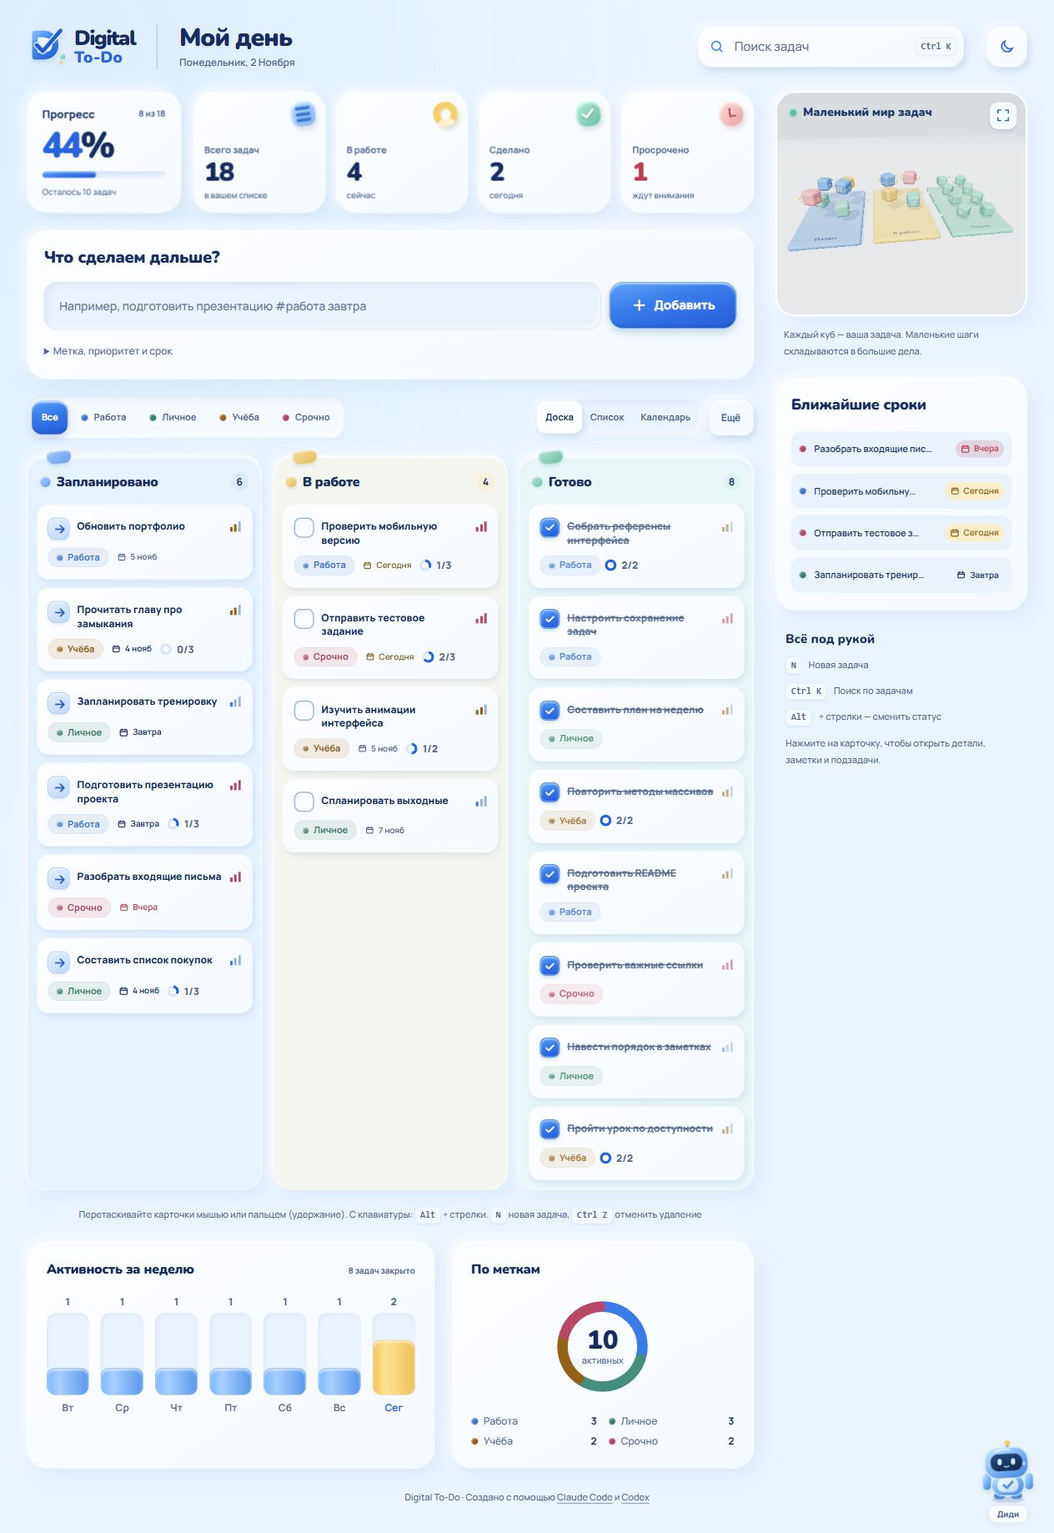
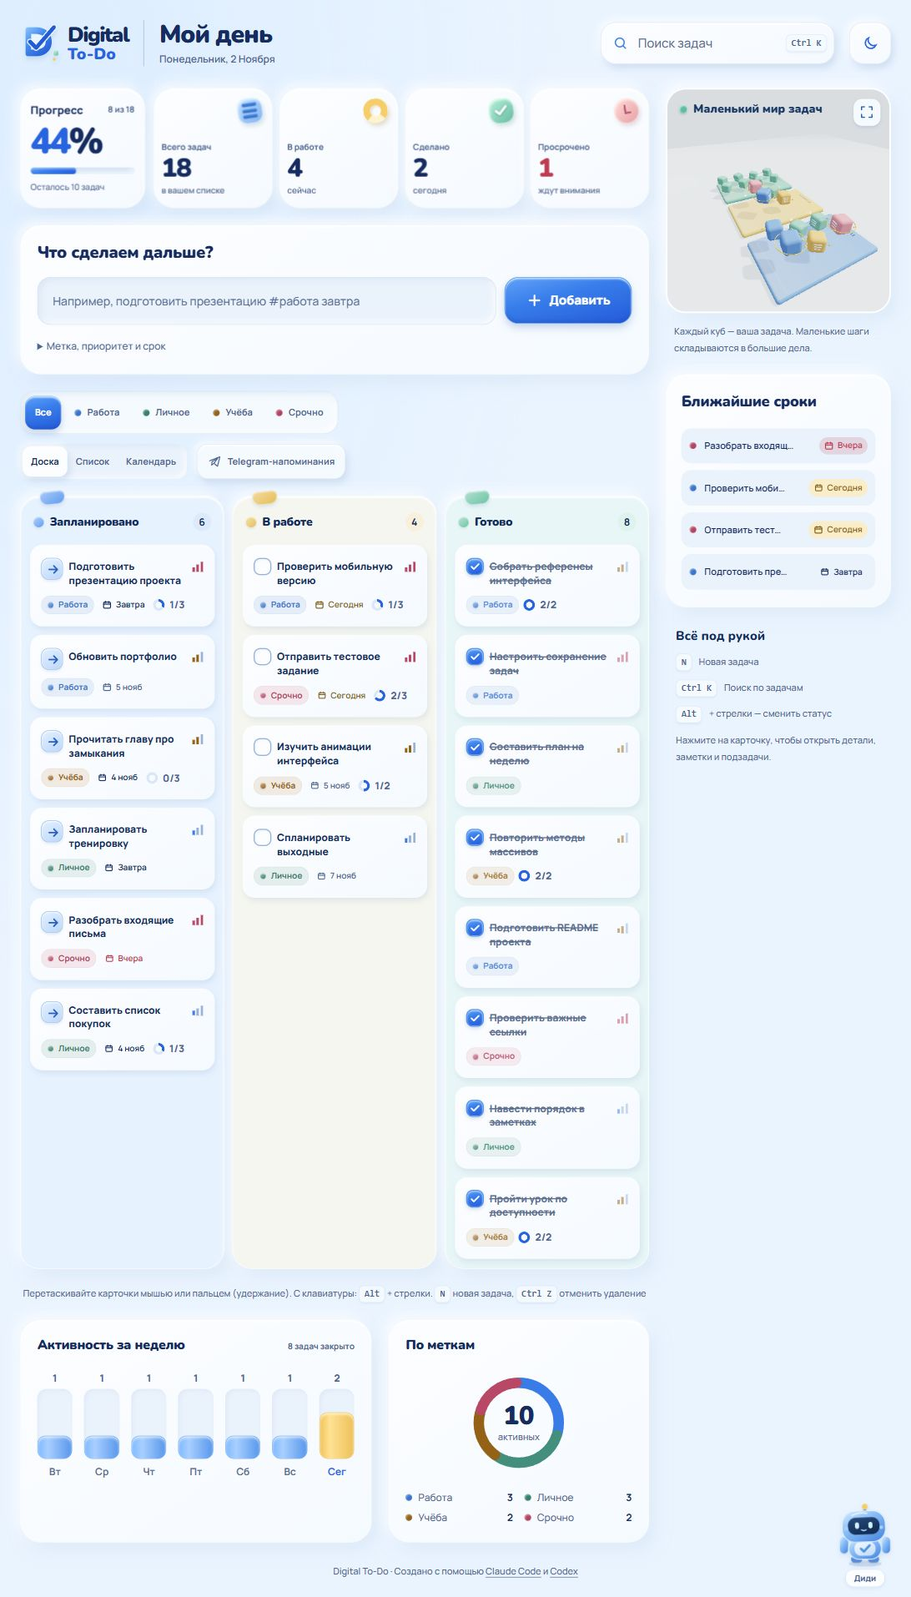
Activate To-Do reminders with /todo and refresh live screenshots

diff --git a/js/assistant.js b/js/assistant.js
@@ -3,7 +3,7 @@ import { dueInfo } from './parse.js';
 import { readAssistantResponse } from './assistant-stream.js';
 
 const reducedMotion = matchMedia('(prefers-reduced-motion: reduce)').matches;
-const GUIDE = `Я Диди — помощник Digital To-Do. Помогу разобраться с задачами.\n\n• Добавьте задачу в поле «Что сделаем дальше?». Можно написать «Сдать отчёт #работа ! завтра»: метка, приоритет и срок определятся автоматически.\n• Переносите карточки между колонками или выберите статус в карточке задачи.\n• В «Запланировано» нажмите стрелку «Взять в работу»: задача перейдёт в колонку «В работе». Галочка в «В работе» завершает задачу. Нажатие на карточку открывает детали, подзадачи и заметки.\n• Удаление можно отменить через уведомление или Ctrl+Z.\n• Поиск — Ctrl+K. Новая задача — N.\n• В виде «Календарь» нажмите плюс у даты, чтобы создать задачу с нужным сроком.\n• Напоминания: «Telegram-напоминания», затем подключите личный чат, выберите задачи и время.\n\nСпросите: «Сколько осталось?», «Что важнее?» или «Что просрочено?».`;
+const GUIDE = `Я Диди — помощник Digital To-Do. Помогу разобраться с задачами.\n\n• Добавьте задачу в поле «Что сделаем дальше?». Можно написать «Сдать отчёт #работа ! завтра»: метка, приоритет и срок определятся автоматически.\n• Переносите карточки между колонками или выберите статус в карточке задачи.\n• В «Запланировано» нажмите стрелку «Взять в работу»: задача перейдёт в колонку «В работе». Галочка в «В работе» завершает задачу. Нажатие на карточку открывает детали, подзадачи и заметки.\n• Удаление можно отменить через уведомление или Ctrl+Z.\n• Поиск — Ctrl+K. Новая задача — N.\n• В виде «Календарь» нажмите плюс у даты, чтобы создать задачу с нужным сроком.\n• Напоминания: «Telegram-напоминания», затем перейдите в личный чат, нажмите Start и отправьте /todo. После подключения выберите задачи и время.\n\nСпросите: «Сколько осталось?», «Что важнее?» или «Что просрочено?».`;
 
 function plural(n, one, few, many) {
   return n % 10 === 1 && n % 100 !== 11 ? one : n % 10 >= 2 && n % 10 <= 4 && (n % 100 < 12 || n % 100 > 14) ? few : many;

diff --git a/js/reminders.js b/js/reminders.js
@@ -106,7 +106,7 @@ export function initReminders({ mount = document.querySelector('.toolbar-right')
         if (selectionChanged) persist();
         state.textContent = failed ? 'Telegram подключён. Некоторые напоминания не удалось доставить — выберите для них новое время.' : 'Telegram подключён. Напоминания придут в ваш личный чат с ботом.';
         link.hidden = true; clearTimeout(poll); pairing = null;
-      } else state.textContent = status.pending ? 'Откройте бота и нажмите «Запустить», чтобы подтвердить подключение.' : 'Подключите свой Telegram и разрешите боту отправлять напоминания.';
+      } else state.textContent = status.awaitingCommand ? 'Ссылка подтверждена. Отправьте боту команду /todo, чтобы включить напоминания.' : status.pending ? 'Откройте бота по ссылке, нажмите «Запустить», затем отправьте /todo.' : 'Подключите свой Telegram и разрешите боту отправлять напоминания.';
       paint();
       if (pairing && !connected && Date.now() < pairing.expiresAt) poll = setTimeout(refresh, 3000);
       else if (pairing && !connected) { link.hidden = true; pairing = null; state.textContent = 'Ссылка истекла. Подключите Telegram ещё раз.'; }
@@ -139,7 +139,7 @@ export function initReminders({ mount = document.querySelector('.toolbar-right')
       pairing = await api('/link', {}); token = pairing.clientToken;
       try { localStorage.setItem(TOKEN_KEY, token); } catch {}
       link.href = pairing.linkUrl; link.hidden = false;
-      state.textContent = 'Откройте Telegram по ссылке ниже и нажмите «Запустить». Ссылка действует 5 минут.';
+      state.textContent = 'Откройте Telegram по ссылке, нажмите «Запустить», затем отправьте /todo. Ссылка действует 5 минут.';
       clearTimeout(poll); poll = setTimeout(refresh, 2000);
     } catch { state.textContent = 'Подключение пока недоступно. Попробуйте позже.'; }
     finally { connect.disabled = !configured; }

diff --git a/README.md b/README.md
@@ -47,7 +47,7 @@
 
 **Потоковый чат.** Ответ модели передаётся через SSE и появляется по мере получения текста. Есть индикатор ожидания, курсор и кнопка остановки; при недоступности API используются локальные ответы. Проверка семи реальных диалогов выявила неточности с датами выполнения; системный промпт уточнён. [Отчёт проверки](docs/assistant-qa.md).
 
-**Telegram-напоминания.** Отдельная кнопка «Telegram-напоминания» открывает подключение личного чата через одноразовую ссылку, выбор задач и точного времени. Сервер продолжает отправлять напоминания при закрытом сайте. Выполненные и удалённые задачи снимаются при следующей синхронизации браузера. Серверный бот подключён через общий webhook: ссылки Digital To-Do обрабатываются отдельно, а остальные сообщения и ответы прежнего сервиса сохраняются через пересылку. Для получения напоминаний нужно лично нажать «Подключить» и Start в Telegram. Доставка в личный чат пользователя ещё не подтверждена. [Настройка Telegram для Claude Code](docs/TELEGRAM-SETUP.md).
+**Telegram-напоминания.** Отдельная кнопка «Telegram-напоминания» открывает подключение личного чата через одноразовую ссылку, выбор задач и точного времени. Сервер продолжает отправлять напоминания при закрытом сайте. Выполненные и удалённые задачи снимаются при следующей синхронизации браузера. Серверный бот подключён через общий webhook: ссылки Digital To-Do обрабатываются отдельно, а остальные сообщения и ответы прежнего сервиса сохраняются через пересылку. Для получения напоминаний нужно лично нажать «Подключить», Start в Telegram и отправить `/todo`. Доставка в личный чат пользователя ещё не подтверждена. [Настройка Telegram для Claude Code](docs/TELEGRAM-SETUP.md).
 
 **Демо-данные.** Доступны 18 примеров со сроками, подзадачами и активностью за неделю. При первом открытии примеры добавляются автоматически; последующие открытия не создают дубликатов. У примеров есть соответствующая отметка в заметках.
 

diff --git a/docs/REVIEWER-MESSAGE.md b/docs/REVIEWER-MESSAGE.md
@@ -8,7 +8,7 @@
 
 Сверх задания добавил канбан с перетаскиванием, список и календарь, поиск, метки, приоритеты, подзадачи, статистику и компактный 3D-обзор. Из календаря можно скачать .ics для календаря телефона: активные задачи со сроками и текущими фильтрами экспортируются событиями на весь день. Это снимок без автосинхронизации, заметки не передаются. На телефоне 3D не загружается. Есть светлая и тёмная тема, отмена удаления и демонстрационные данные.
 
-Диди — анимированный помощник и гид по сайту. Он анализирует текущие задачи и отвечает потоковым текстом через RouterAI; HTTPS и реальные потоковые ответы проверены в браузере. Ключ хранится на отдельном сервере. При недоступности AI работают локальные ответы. Серверные Telegram-напоминания настроены; для их получения пользователь лично связывает свой чат кнопкой на сайте и нажимает Start в Telegram. Доставка в мой личный чат пока не заявляется проверенной.
+Диди — анимированный помощник и гид по сайту. Он анализирует текущие задачи и отвечает потоковым текстом через RouterAI; HTTPS и реальные потоковые ответы проверены в браузере. Ключ хранится на отдельном сервере. При недоступности AI работают локальные ответы. Серверные Telegram-напоминания настроены; для их получения пользователь лично связывает свой чат кнопкой на сайте и нажимает Start и отправляет `/todo` в Telegram. Доставка в мой личный чат пока не заявляется проверенной.
 
 Первую версию делал с Claude Code, переработку дизайна и функций — с OpenAI Codex. Варианты внешнего вида исследовал через imagegen, а финальный интерфейс реализован кодом. Проверял пользовательские сценарии в браузере; серверные сценарии покрыты тестами.
 

diff --git a/docs/CLAUDE-DEPLOY-ASSISTANT.md b/docs/CLAUDE-DEPLOY-ASSISTANT.md
@@ -16,7 +16,7 @@
 
 Провайдер — **RouterAI**, база `https://routerai.ru/api/v1`, модель production — **`openai/gpt-4.1-mini`**. В локальных экспериментах использовались и другие модели; исторический QA-отчёт не определяет текущую настройку VPS.
 
-HTTPS сайта и настоящий потоковый AI-ответ проверены в браузере. Telegram настроен в режиме общего webhook с существующим приложением: Digital To-Do обрабатывает свои `/start dt_<nonce>`, а остальные updates пересылает прежнему обработчику вместе с его успешным ответом. Старое приложение продолжает работать; конкурирующий getUpdates не запускается. Прежний URL и секреты остаются только в env на сервере. Для напоминаний пользователь сам связывает личный чат кнопкой на сайте и нажимает Start в Telegram. Доставка в его личный чат ещё не подтверждена.
+HTTPS сайта и настоящий потоковый AI-ответ проверены в браузере. Telegram настроен в режиме общего webhook с существующим приложением: Digital To-Do обрабатывает свои `/start dt_<nonce>`, а остальные updates пересылает прежнему обработчику вместе с его успешным ответом. Старое приложение продолжает работать; конкурирующий getUpdates не запускается. Прежний URL и секреты остаются только в env на сервере. Для напоминаний пользователь сам связывает личный чат кнопкой на сайте и нажимает Start и отправляет `/todo` в Telegram. Доставка в его личный чат ещё не подтверждена.
 
 ## Где находится приложение
 

diff --git a/docs/TELEGRAM-SETUP.md b/docs/TELEGRAM-SETUP.md
@@ -6,7 +6,7 @@
 
 **Текущий статус:** серверные напоминания настроены в режиме общего webhook. Digital To-Do обрабатывает только свои ссылки `/start dt_<nonce>`, а остальные Telegram updates передаёт прежнему приложению с сохранением исходного JSON и его успешного ответа. Прежний сервис продолжает работать; параллельный getUpdates не запускается. Адрес прежнего webhook и секреты хранятся только на сервере. Доставка напоминаний в личный чат пользователя ещё не подтверждена.
 
-Пользователь **сам** открывает «Telegram-напоминания», нажимает «Подключить», переходит по одноразовой ссылке и нажимает Start в личном Telegram-чате. Успешный getMe, регистрация общего webhook или готовый API не заменяют личную привязку и проверку реальной доставки.
+Пользователь **сам** открывает «Telegram-напоминания», нажимает «Подключить», переходит по одноразовой ссылке и нажимает Start и отправляет `/todo` в личном Telegram-чате. Успешный getMe, регистрация общего webhook или готовый API не заменяют личную привязку и проверку реальной доставки.
 
 There is no bot token in the browser, repository, or frontend build. Store it only in `/etc/digital-todo/assistant.env` on the VPS, outside the checkout and releases. Give the server administrator the token through a secure channel, not a public chat or commit.
 
